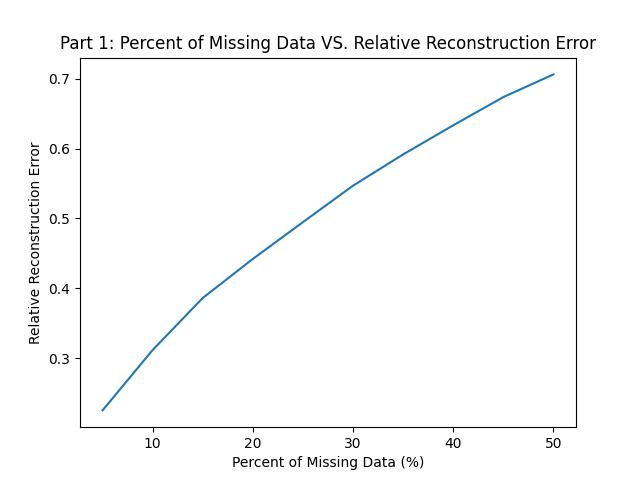
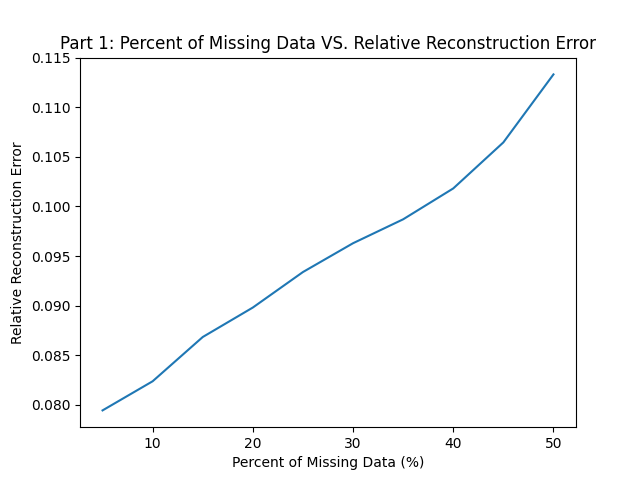
got problem 3 part 1 working as expected

diff --git a/problem3/Q3.py b/problem3/Q3.py
@@ -26,13 +26,13 @@ def PFBS(
     m : int,
     n1 : int,
     n2 : int,
-    tau : int = 1,
-    max_iteration : int = 500
+    tau : int = 200,
+    max_iteration : int = 200
 ) -> np.ndarray:
     '''
     '''
     Y = np.zeros((n1, n2))
-    delta = 0.01
+    delta = 0.1
     for i in range(max_iteration):
         U, S, V = np.linalg.svd(Y)
         S_diag = np.zeros(Y.shape)
